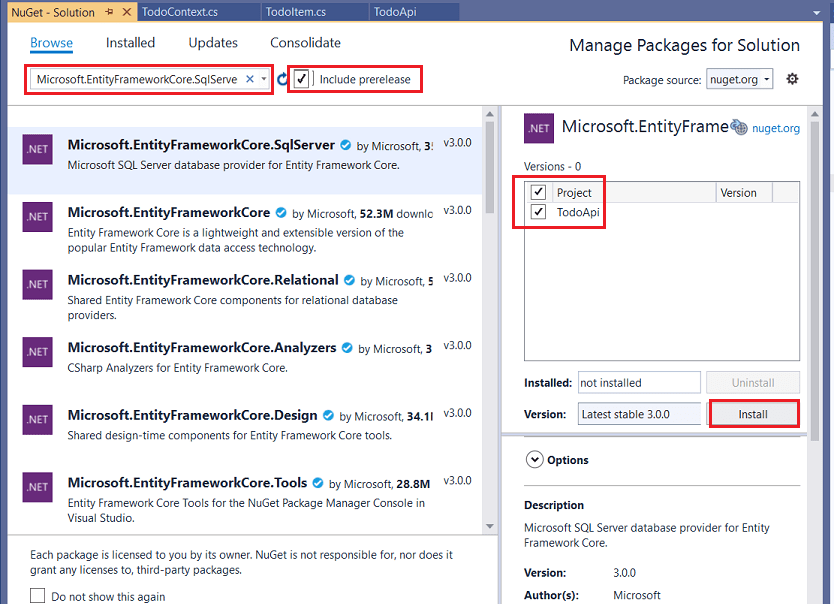
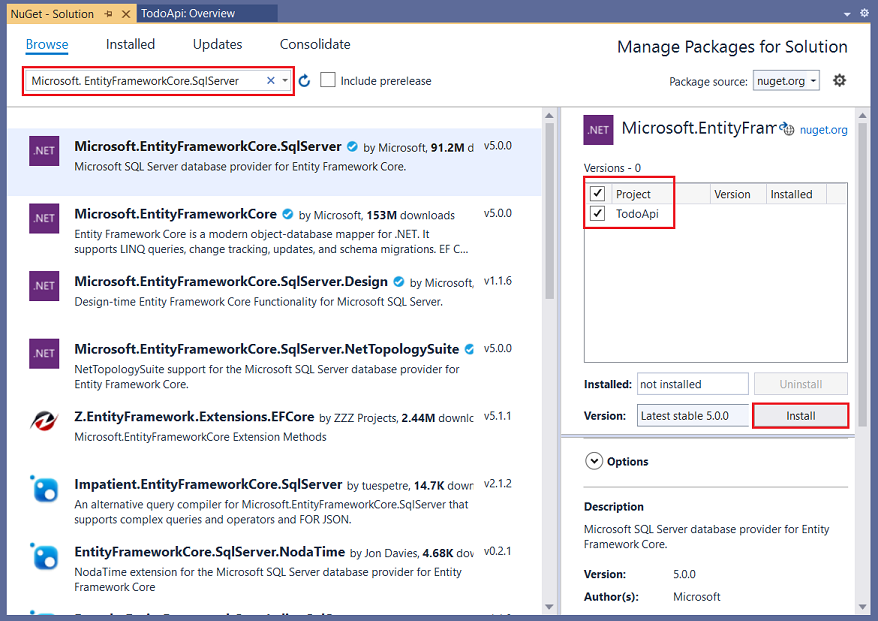
Update WebAPI intro to RTM from RC2 (#20664)

Changed region(s): [[0.0, 0.0, 1.0, 1.0]]

diff --git a/aspnetcore/tutorials/first-web-api.md b/aspnetcore/tutorials/first-web-api.md
@@ -253,10 +253,8 @@ The *database context* is the main class that coordinates Entity Framework funct
 ### Add NuGet packages
 
 * From the **Tools** menu, select **NuGet Package Manager > Manage NuGet Packages for Solution**.
-* Select the **Browse** tab, and then enter **Microsoft.
-**EntityFrameworkCore.SqlServer** in the search box.
+* Select the **Browse** tab, and then enter **Microsoft.EntityFrameworkCore.SqlServer** in the search box.
 <!-- https://github.com/dotnet/AspNetCore.Docs/issues/19782 Delete this line at RTM -->
-* Select the **Include prerelease** checkbox so the 5.0 RC version is available. 
 * Select **Microsoft.EntityFrameworkCore.SqlServer** in the left pane.
 * Select the **Project** check box in the right pane and then select **Install**.
 * Use the preceding instructions to add the **Microsoft.EntityFrameworkCore.InMemory** NuGet package.
